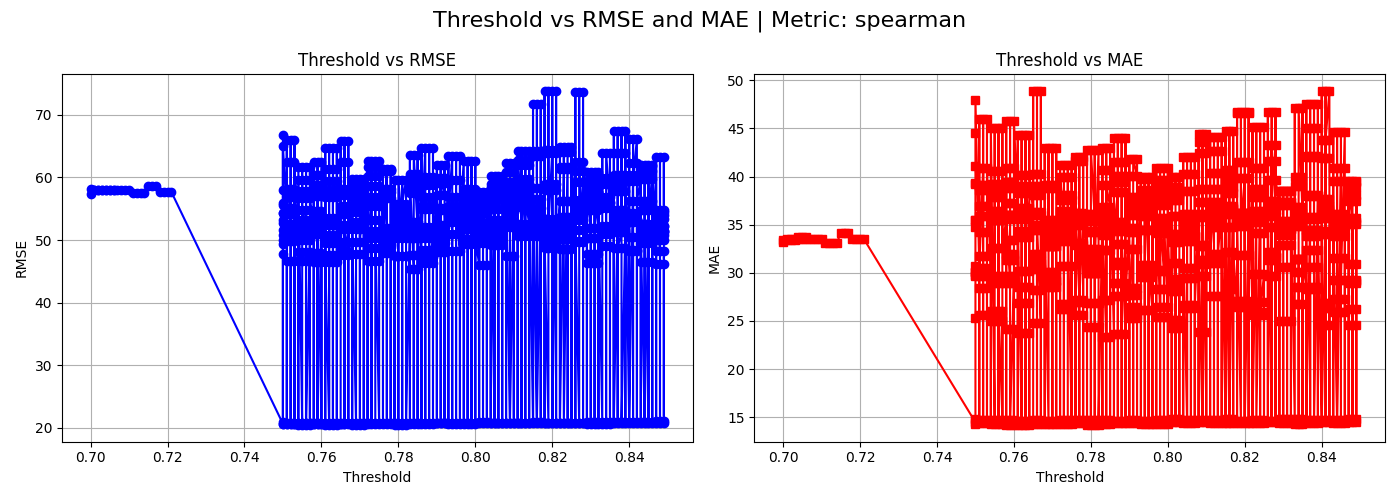
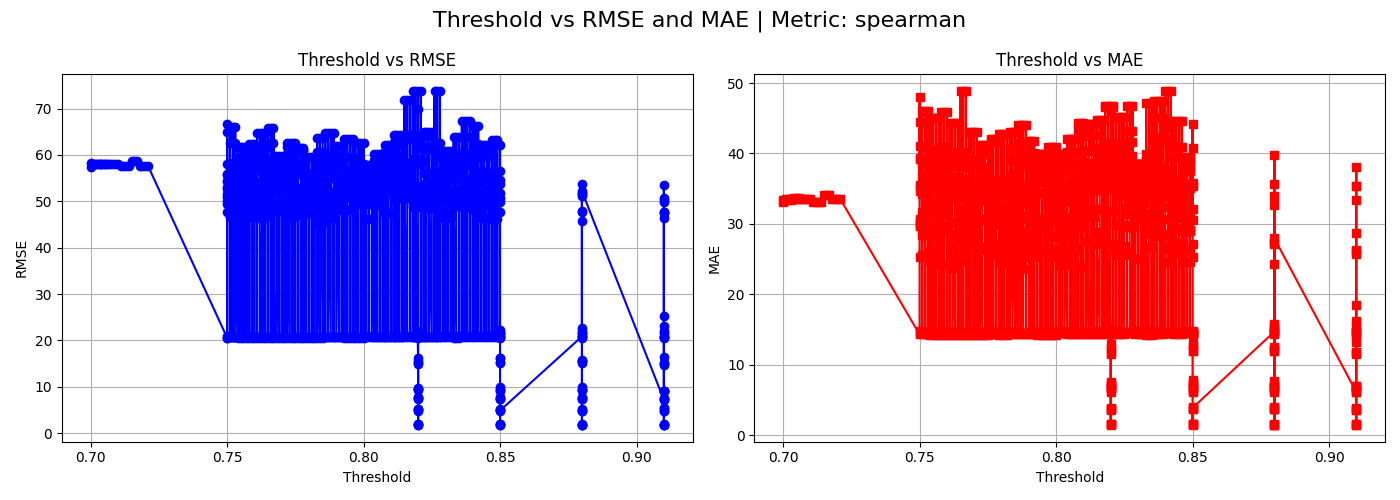
spearman updated

diff --git a/GNN/Graph2vec_FixedThreshold/LSTM/utils.py b/GNN/Graph2vec_FixedThreshold/LSTM/utils.py
@@ -35,27 +35,64 @@ def compute_similarities_1vsAll(target_ts, all_ts, metric='pearson', eps=1e-12):
         return sim.cpu().numpy()
         
     elif metric == 'spearman':
-        _, target_indices = torch.sort(target, dim=1)
-        target_ranks = torch.empty_like(target)
-        target_ranks.scatter_(1, target_indices, torch.arange(1, target.shape[1]+1, dtype=torch.float32, device=device).unsqueeze(0))
-        
-        _, X_indices = torch.sort(X, dim=1)
-        X_ranks = torch.empty_like(X)
-        X_ranks.scatter_(1, X_indices, torch.arange(1, X.shape[1]+1, dtype=torch.float32, device=device).unsqueeze(0).expand_as(X))
-        
+        def get_fractional_ranks(tensor):
+            # 1. Sort the tensor
+            # 2. Find where the values change to identify groups of ties
+            # 3. Compute the average rank for each group
+            shape = tensor.shape
+            # Flatten to 2D if necessary, but assuming (N, L)
+            n, l = shape
+            
+            # Sort and get inverse indices
+            sorted_tensor, indices = torch.sort(tensor, dim=1)
+            
+            # Create a sequence of ranks [1, 2, 3, ..., L]
+            rhs = torch.arange(1, l + 1, device=device, dtype=torch.float32).expand(n, l)
+            
+            # Find ties: True if current value is same as next value
+            # We use a small trick: find the start and end of each tie group
+            # For discrete data, simple equality works:
+            is_tie = torch.cat([
+                torch.tensor([[True]], device=device).expand(n, 1),
+                sorted_tensor[:, 1:] != sorted_tensor[:, :-1]
+            ], dim=1)
+            
+            # Group sum of ranks divided by group count
+            group_id = torch.cumsum(is_tie.long(), dim=1)
+            
+            # Compute average ranks for ties
+            # We use scatter_add to sum ranks of same values, then divide by counts
+            sum_ranks = torch.zeros(n, l + 1, device=device)
+            counts = torch.zeros(n, l + 1, device=device)
+            
+            sum_ranks.scatter_add_(1, group_id, rhs)
+            counts.scatter_add_(1, group_id, torch.ones_like(rhs))
+            
+            avg_ranks = sum_ranks / counts
+            # Map back to original positions
+            sorted_fractional_ranks = torch.gather(avg_ranks, 1, group_id)
+            
+            # Use the original indices to put ranks in correct order
+            inv_indices = torch.argsort(indices, dim=1)
+            return torch.gather(sorted_fractional_ranks, 1, inv_indices)
+
+        target_ranks = get_fractional_ranks(target)
+        X_ranks = get_fractional_ranks(X)
+
+        # Re-use the Pearson logic on these fractional ranks
         target_mean = torch.mean(target_ranks, dim=1, keepdim=True)
         X_mean = torch.mean(X_ranks, dim=1, keepdim=True)
-        
+
         target_centered = target_ranks - target_mean
         X_centered = X_ranks - X_mean
-        
+
         cov = torch.sum(target_centered * X_centered, dim=1)
         target_var = torch.sqrt(torch.sum(target_centered**2, dim=1))
         X_var = torch.sqrt(torch.sum(X_centered**2, dim=1))
-        
+
         sim = cov / (target_var * X_var + eps)
         return sim.cpu().numpy()
-        
+
     elif metric == 'kendall':
         seq_len = target.shape[1]
         if seq_len < 2:

diff --git a/GNN/DynamicSimilarities/GraphAnalysis/graph_construction_similarity_2nddegree_adaptativethreshold.py b/GNN/DynamicSimilarities/GraphAnalysis/graph_construction_similarity_2nddegree_adaptativethreshold.py
@@ -23,7 +23,7 @@ import hashlib
 
 
 if __name__ == "__main__":
-    item_ids = [26008,907969,907967,213626]  # Add your list of product ids here
+    item_ids = [26008,907969,907967,213626,213628, 213625, 26862, 156753,53682,34497]  # Add your list of product ids here
     # Use absolute path to ensure it finds the dataset regardless of where the script is executed from
     BASE_DIR = os.path.dirname(os.path.abspath(__file__))
     DATA_PATH = os.path.join(BASE_DIR, '..', '..', '..', 'dataset', 'data_andre.feather')
@@ -61,9 +61,9 @@ if __name__ == "__main__":
     grid_configs = [
         #{'metric': 'pearson', 'thresholds': [0.8,0.9, 0.95]},
         #{'metric': 'pearson', 'percentiles':  [0.5, 1, 2]},
-        {'metric': 'spearman', 'thresholds': [round(t, 3) for t in np.arange(0.75, 0.85, 0.01)]},
-        {'metric': 'pearson', 'thresholds': [round(t, 3) for t in np.arange(0.75, 0.85, 0.01)]},
-        {'metric': 'kendall', 'thresholds': [round(t, 3) for t in np.arange(0.75, 0.85, 0.01)]}
+        {'metric': 'spearman', 'thresholds': [round(t, 3) for t in np.arange(0.82, 0.92, 0.03)]},
+        #{'metric': 'pearson', 'thresholds': [round(t, 3) for t in np.arange(0.75, 0.85, 0.01)]},
+        #{'metric': 'kendall', 'thresholds': [round(t, 3) for t in np.arange(0.75, 0.85, 0.01)]}
     ]
     num_plots_to_draw = None  # Draw all plots if None
     for item_id in item_ids:

diff --git a/GNN/Graph2vec_FixedThreshold/LSTM/graph2vec_lstm.py b/GNN/Graph2vec_FixedThreshold/LSTM/graph2vec_lstm.py
@@ -32,7 +32,7 @@ DATA_PATH = os.path.normpath(os.path.join(SCRIPT_DIR, '../../../dataset/data_and
 DATE_COL = 'date'
 TARGET_COL = 'value'
 #SEEDS = [42, 1000, 26008, 213626, 907969, 5219788,13451285]  # Add more seeds as needed
-SEEDS =[42]
+SEEDS =[42,1000,26008,213626]
  
 # Add the products and stores you want to iterate over
 PRODUCTS_TO_TEST = [
@@ -41,6 +41,12 @@ PRODUCTS_TO_TEST = [
   (210036, 6269),
   (907967,6269),
   (213626,6269),
+  (213628, 6269),
+  (213625, 6269),
+  (26862, 6269),
+  (156753, 6269),
+  (53682, 6269),
+  (34497, 6269)
 ]
 
 # EXOG_COLS definition
@@ -98,10 +104,10 @@ grid_configs = [
     # Distâncias Robustas e Lock-step
     #{'metric': 'cid', 'percentiles': [0.5, 1, 2]},
     #{'metric': 'amplitude_offset', 'percentiles': [0.5, 1, 2]},
-   
-    {'metric': 'cid', 'thresholds': [round(t, 2) for t in np.arange(2.0, 3.2, 0.01)]},
+    {'metric': 'spearman', 'thresholds': [round(t, 3) for t in np.arange(0.82, 0.92, 0.03)]},
+    #{'metric': 'cid', 'thresholds': [round(t, 2) for t in np.arange(2.0, 3.2, 0.01)]},
     # Distâncias Robustas e Lock-step
-    {'metric': 'amplitude_offset', 'thresholds': [round(t, 2) for t in np.arange(2.0, 3.5, 0.01)]},
+    #{'metric': 'amplitude_offset', 'thresholds': [round(t, 2) for t in np.arange(2.0, 3.5, 0.01)]},
 ]
 
 window_sizes = [15]     
